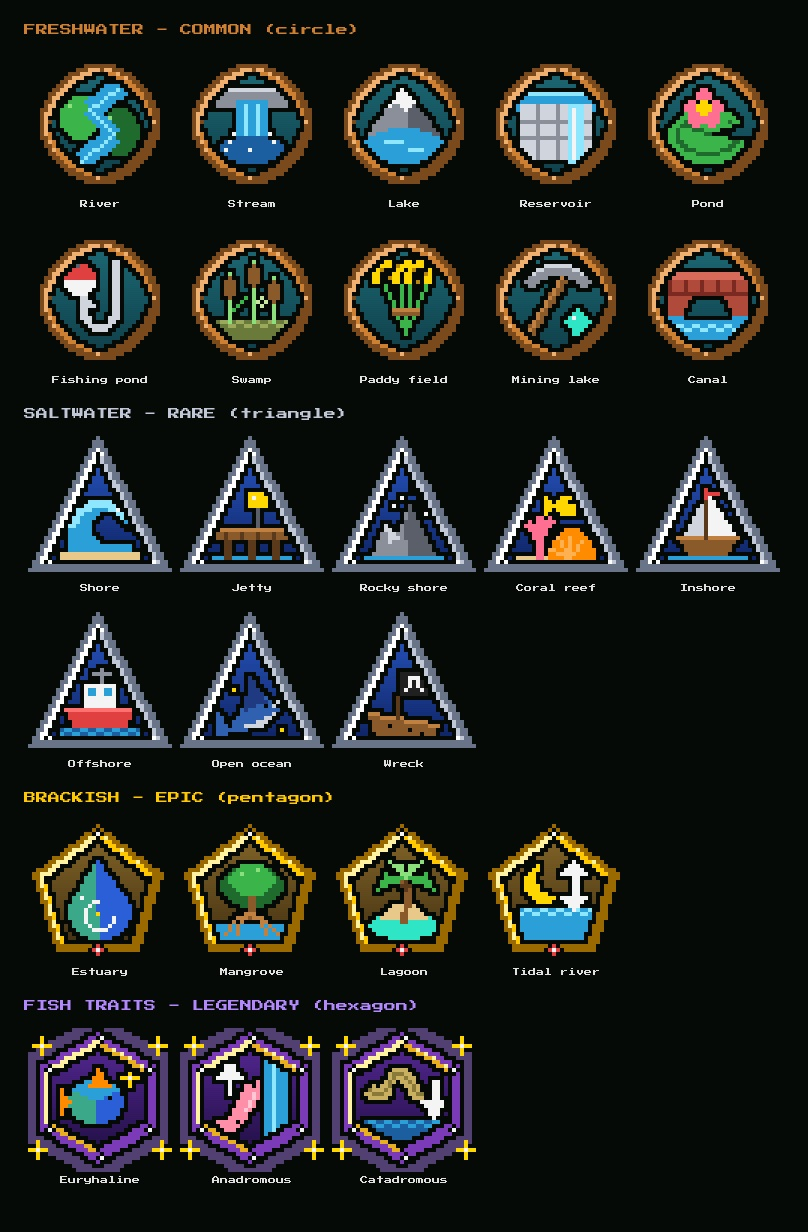
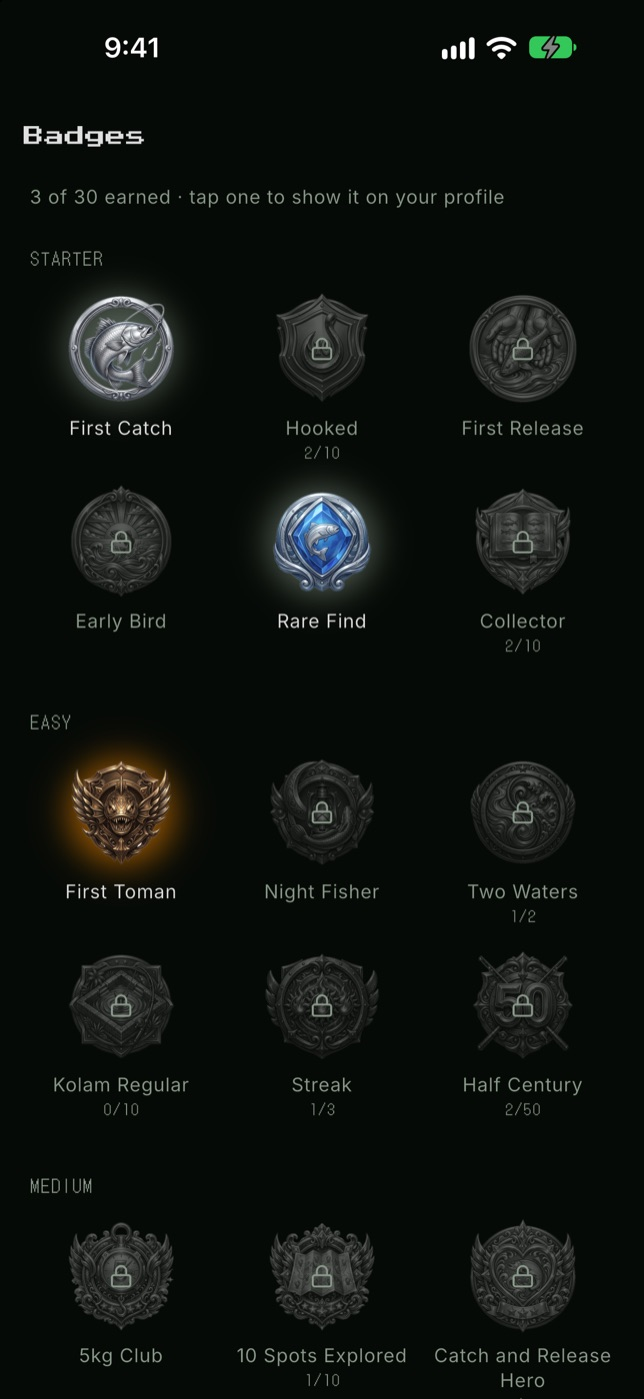
Replace FishDex screenshots with new KAST app captures

diff --git a/src/data/profile.ts b/src/data/profile.ts
@@ -300,10 +300,23 @@ export const projects: Project[] = [
     ],
     tech: ["Flutter", "Riverpod", "Firebase", "Cloud Functions", "Google Maps", "Hive"],
     images: [
-      { src: "/projects/fishdex/new-catch.jpg", alt: "Log a new catch" },
-      { src: "/projects/fishdex/sprites.jpg", alt: "Pixel-art fish cards" },
-      { src: "/projects/fishdex/badges.jpg", alt: "Habitat badges by rarity" },
-      { src: "/projects/fishdex/verify.jpg", alt: "WhatsApp phone verification" },
+      { src: "/projects/fishdex/home.jpg", alt: "Home screen" },
+      { src: "/projects/fishdex/fishdex.jpg", alt: "FishDex species collection" },
+      { src: "/projects/fishdex/species-detail.jpg", alt: "Species detail" },
+      { src: "/projects/fishdex/map.jpg", alt: "Shared map of catch spots" },
+      { src: "/projects/fishdex/profile.jpg", alt: "Profile with rank and badges" },
+      { src: "/projects/fishdex/badges.jpg", alt: "Badges" },
+      { src: "/projects/fishdex/catch-history.jpg", alt: "Catch history" },
+      { src: "/projects/fishdex/catch-detail.jpg", alt: "Catch detail" },
+      { src: "/projects/fishdex/log-catch-form.jpg", alt: "Log a new catch" },
+      { src: "/projects/fishdex/new-species-reveal.jpg", alt: "New species reveal" },
+      { src: "/projects/fishdex/friends.jpg", alt: "Friends" },
+      { src: "/projects/fishdex/settings.jpg", alt: "Settings" },
+      { src: "/projects/fishdex/guide.jpg", alt: "Game guide" },
+      { src: "/projects/fishdex/sign-in.jpg", alt: "Sign in" },
+      { src: "/projects/fishdex/legal.jpg", alt: "Terms & privacy" },
+      { src: "/projects/fishdex/home-light.jpg", alt: "Home screen in light mode" },
+      { src: "/projects/fishdex/fishdex-malay.jpg", alt: "FishDex in Malay" },
     ],
     device: "phone",
   },
